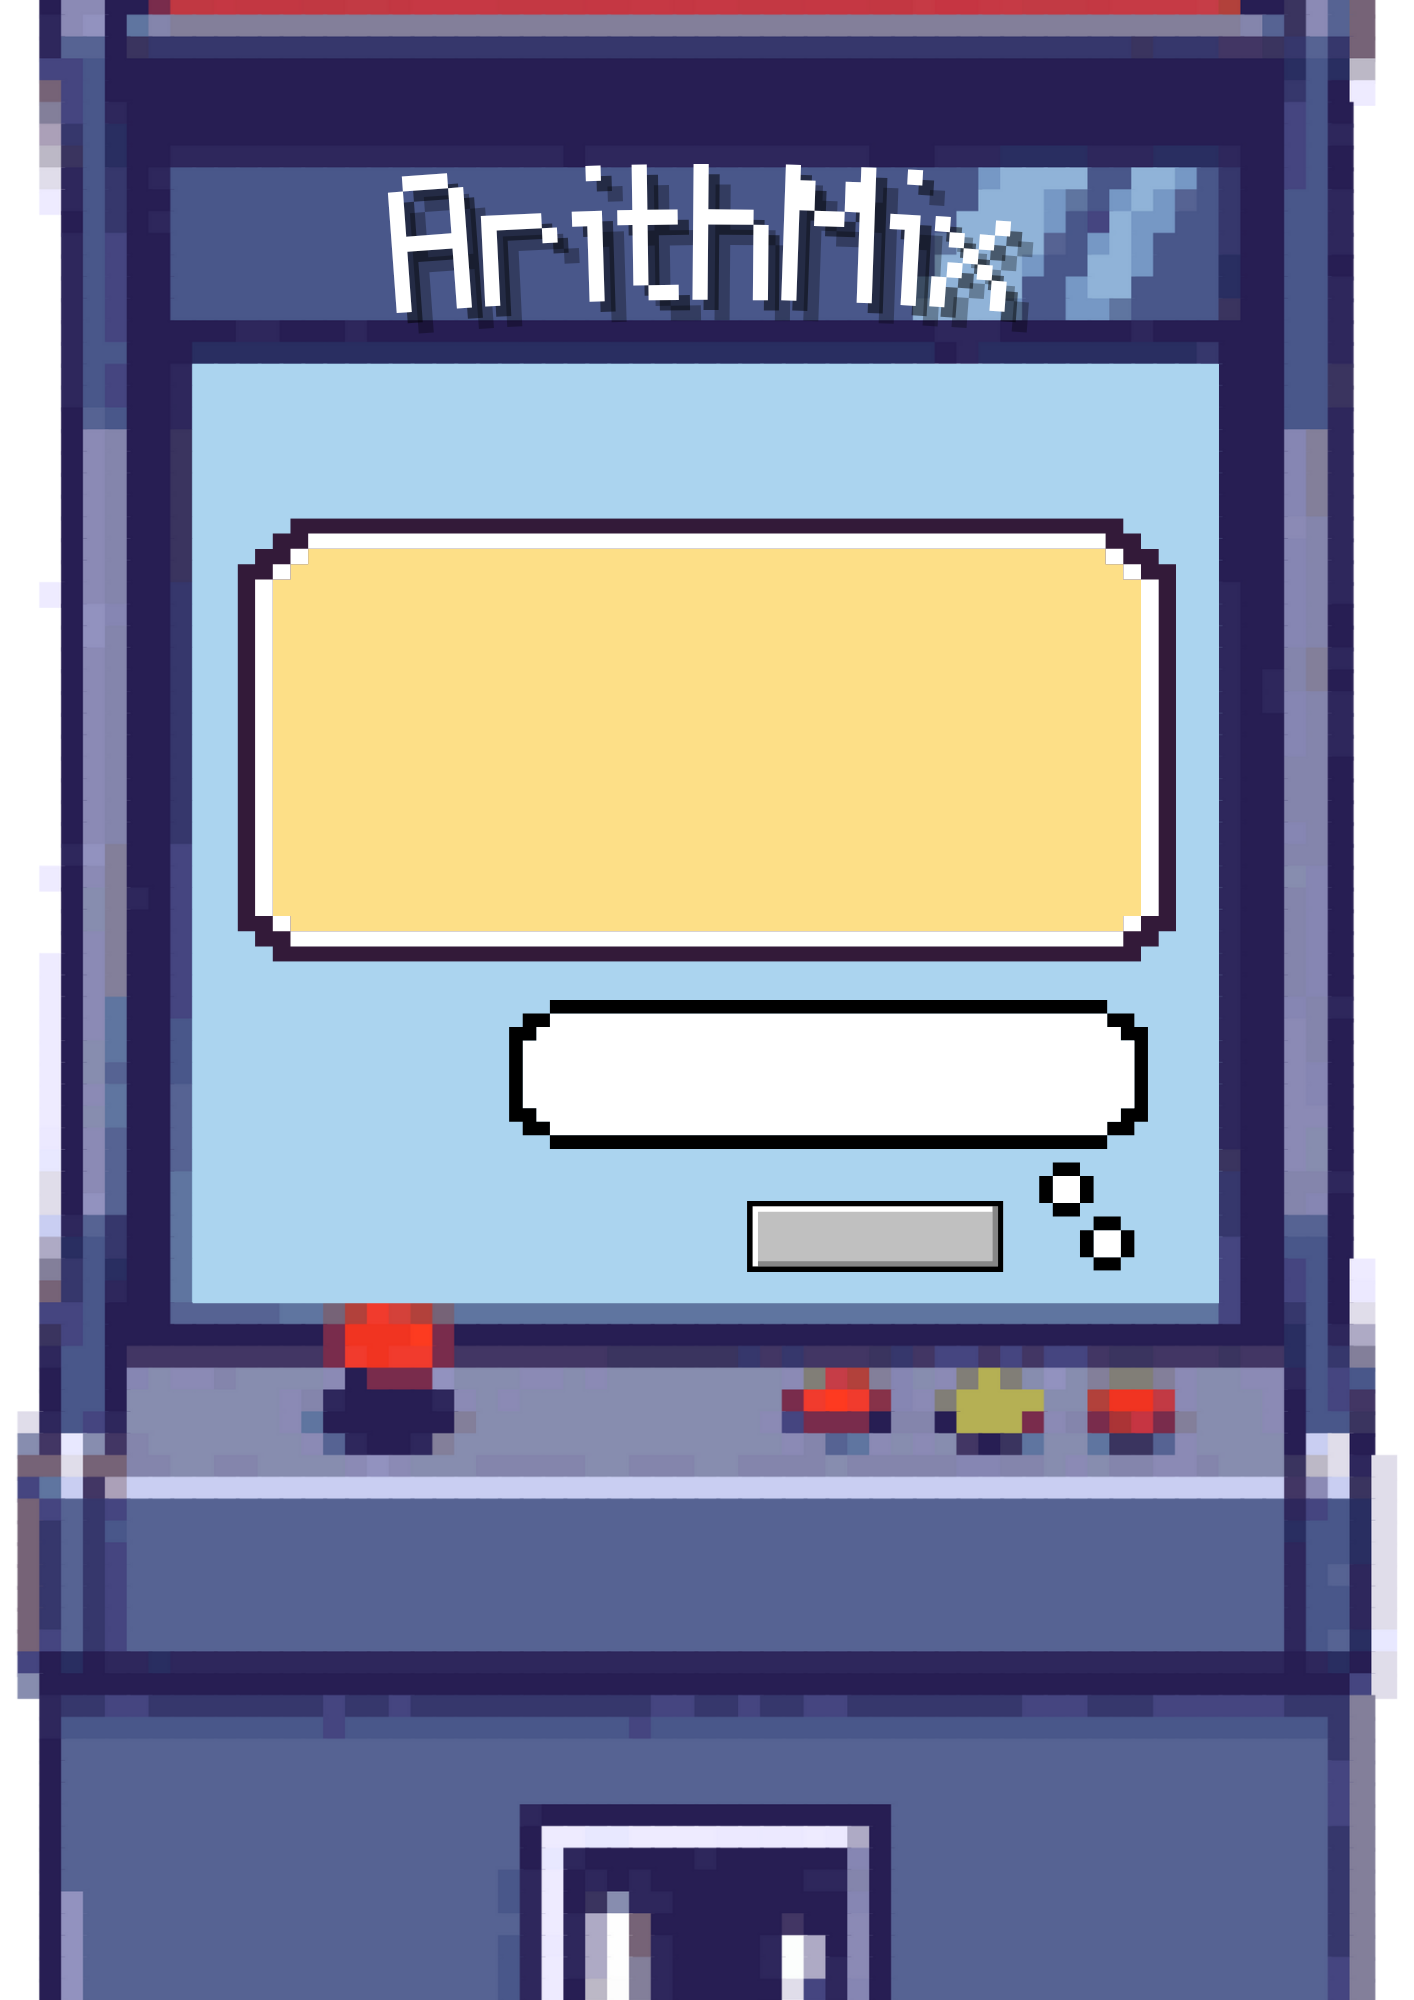
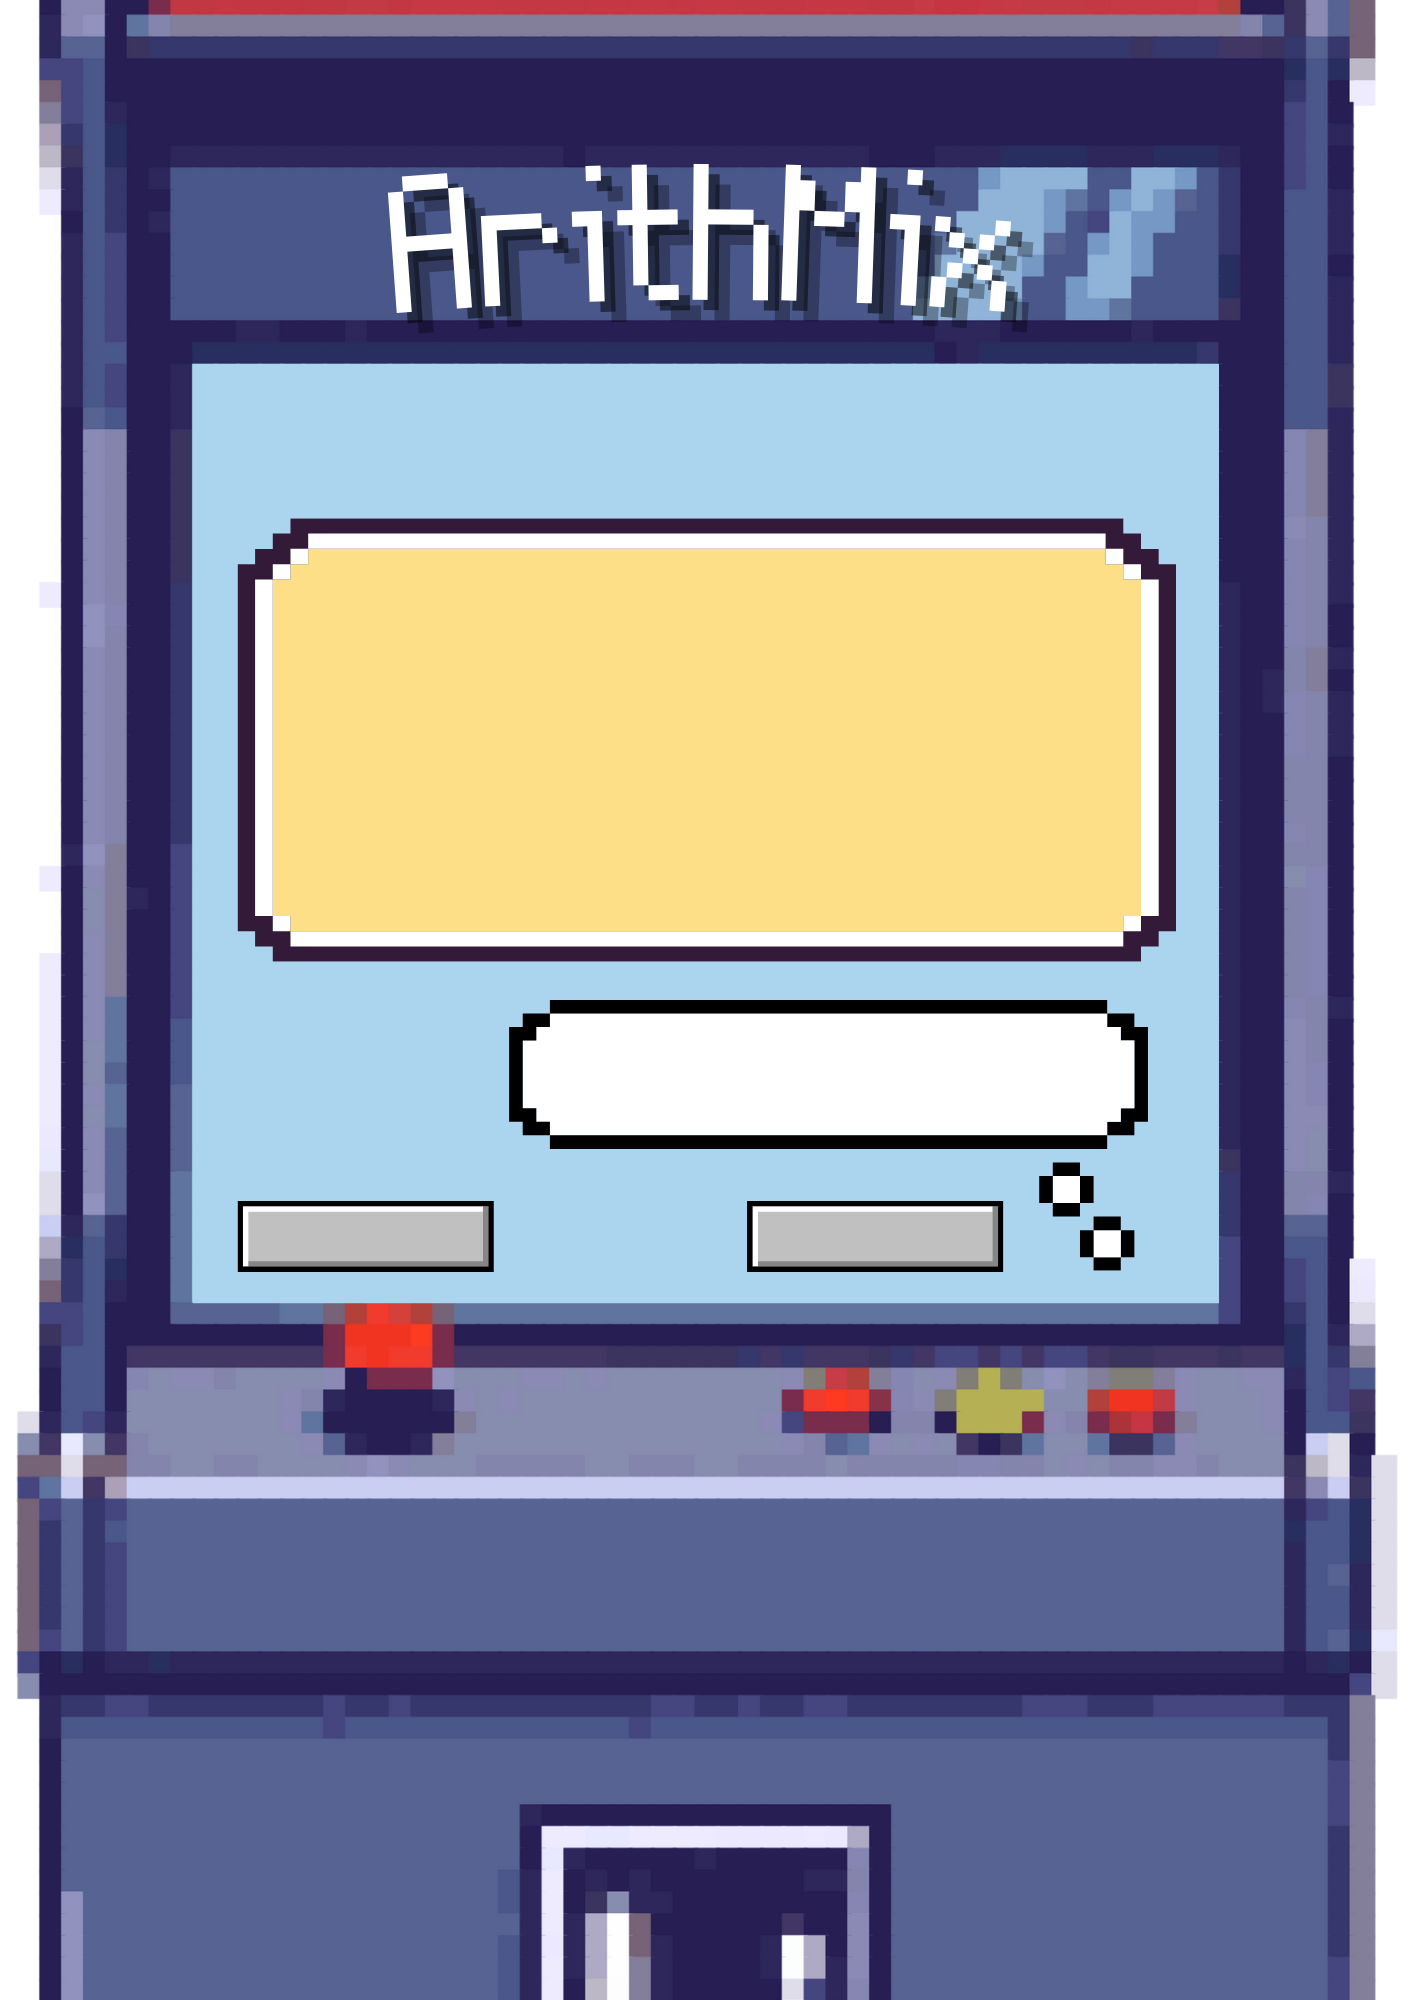
Full working Game Quiz
Added:
- Random arithmetic problems (addition/subtraction)
- Score tracking with visual feedback
- Updated custom background images
- Progress tracking

Changed region(s): [[0.1556, 0.589, 0.3734, 0.651]]

diff --git a/Exercise 1/Exercise 1 - Maths Quiz.py b/Exercise 1/Exercise 1 - Maths Quiz.py
@@ -1,32 +1,38 @@
 from tkinter import *
 from tkinter import font
 from PIL import ImageTk, Image
+import random
 
 root = Tk()
 root.title("ArithMix")
 root.geometry('595x842')
 root.resizable(0, 0)
 
+difficulty = None
+question_count = 0
+score = 0
+first_attempt = True
+current_answer = 0
 
-frame1 = Frame(root)
-frame2 = Frame(root)
-menu = Frame(root)
+frame1 = Frame(root) #Starting Screen
+frame2 = Frame(root) #Next Screen
+menu_frame = Frame(root) #Difficulty Selection
+game_frame = Frame(root) #Game Section
+result_frame = Frame(root)  # Results Frame
 
-for frame in (frame1, frame2, menu):
+for frame in (frame1, frame2, menu_frame, game_frame, result_frame):
     frame.place(x=0, y=0, relwidth=1, relheight=1)
 
-##Frame 1 - Starting Screen
-image1 = Image.open('Exercise 1\Images/1.png')
+# ------------------- Frame 1 - Starting Screen ------------------- 
+
+image1 = Image.open('Exercise 1/Images/1.png')
 image1 = image1.resize((595, 842), Image.LANCZOS)
 bg1 = ImageTk.PhotoImage(image1)
-
 bg_label1 = Label(frame1, image=bg1)
 bg_label1.place(x=0, y=0, relwidth=1, relheight=1)
 
-
 def go_to_frame2():
     frame2.tkraise()
-
 
 start_button = Button(frame1,
                       text="Start",
@@ -37,22 +43,15 @@ start_button = Button(frame1,
                       command=go_to_frame2)
 start_button.place(x=255, y=318)
 
-
-def go_to_frame1():
-    frame1.tkraise()
-
-
-##Frame2 - Next Screen
-image2 = Image.open('Exercise 1\Images/2.png')
+# ------------------- Frame 2 - Next Screen -------------------
+image2 = Image.open('Exercise 1/Images/2.png')
 image2 = image2.resize((595, 842), Image.LANCZOS)
 bg2 = ImageTk.PhotoImage(image2)
-
 bg_label2 = Label(frame2, image=bg2)
 bg_label2.place(x=0, y=0, relwidth=1, relheight=1)
 
 def displayMenu():
-    menu.tkraise()
-
+    menu_frame.tkraise()
 
 next_button = Button(frame2,
                      text="Next",
@@ -65,41 +64,176 @@ next_button = Button(frame2,
                      command=displayMenu)
 next_button.place(x=408, y=510)
 
-##Menu Frame - Difficulty Selection
-menu_img = Image.open('Exercise 1\Images/3.png')
+# ------------------- Menu Frame -------------------
+menu_img = Image.open('Exercise 1/Images/3.png')
 menu_img = menu_img.resize((595, 842), Image.LANCZOS)
 menu_bg = ImageTk.PhotoImage(menu_img)
-
-menu_bg_label = Label(menu, image=menu_bg)
+menu_bg_label = Label(menu_frame, image=menu_bg)
 menu_bg_label.place(x=0, y=0, relwidth=1, relheight=1)
 
-Button(menu, text="1. Easy (1-digit)", 
+def start_quiz(selected_difficulty):
+    global difficulty, score, question_count
+    difficulty = selected_difficulty
+    score = 0
+    question_count = 0
+    score_label.config(text=f"Score: {score}")
+    generate_question()
+    game_frame.tkraise()
+
+Button(menu_frame, text="1. Easy (1-digit)", 
             font=("Arial", 10),
             bg="#74a050",
             activebackground="#74a050",
-            bd=0).place(x=246, y=264)
+            bd=0,
+            command=lambda: start_quiz("Easy")).place(x=246, y=264)
 
-Button(menu, text="2. Moderate (2-digit)",
+Button(menu_frame, text="2. Moderate (2-digit)",
        font=("Arial", 10),
             bg="#74a050",
             activebackground="#74a050",
-            bd=0).place(x=238, y=345)
+            bd=0,
+            command=lambda: start_quiz("Moderate")).place(x=238, y=345)
 
-Button(menu, text="3. Advanced (4-digit)",
+Button(menu_frame, text="3. Advanced (4-digit)",
        font=("Arial", 10),
             bg="#74a050",
             activebackground="#74a050",
-            bd=0).place(x=238, y=425)
+            bd=0,
+            command=lambda: start_quiz("Advanced")).place(x=238, y=425)
 
-next_button_2 = Button(menu,
-                     text="Next",
-                     width=10, 
-                     height=1,
-                     font=("Arial", 9),
-                     bg="#c0c0c0",
-                     activebackground="#c0c0c0",
-                     bd=0)
-next_button_2.place(x=408, y=510)
+
+def randomInt(min_value, max_value):
+    return random.randint(min_value, max_value)
+
+def decideOperation():
+    return random.choice(["+", "-"])
+
+def displayProblem(num1, num2, operation):
+    question_label.config(text=f"{num1} {operation} {num2} = ?")
+
+def isCorrect(user_answer, correct_answer):
+    if user_answer == correct_answer:
+        feedback_label.config(text="Correct!")
+        return True
+    else:
+        feedback_label.config(text="Wrong!")
+        return False
+
+def displayResults(score):
+    result_label.config(text=f"Score: {score}/100")
+    result_frame.tkraise()
+
+def get_digit_range():
+    if difficulty == "Easy":
+        return 1, 9
+    elif difficulty == "Moderate":
+        return 10, 99
+    else:
+        return 1000, 9999
+
+def generate_question():
+    global current_answer, first_attempt, question_count
+
+    if question_count == 10:
+        displayResults(score)
+        return
+
+    first_attempt = True
+    question_count += 1
+    question_number_label.config(text=f"Question {question_count}/10")
+
+    # Get digits based on difficulty
+    min_value, max_value = get_digit_range()
+
+    num1 = randomInt(min_value, max_value)
+    num2 = randomInt(min_value, max_value)
+
+    operation = decideOperation()
+
+    # Compute answer
+    if operation == "+":
+        current_answer = num1 + num2
+    else:
+        current_answer = num1 - num2
+
+    # Display problem
+    displayProblem(num1, num2, operation)
+
+    answer_entry.delete(0, END)
+
+def check_answer():
+    global score, first_attempt
+
+    try:
+        user_answer = int(answer_entry.get())
+    except:
+        feedback_label.config(text="Enter a valid number!")
+        return
+
+    correct = isCorrect(user_answer, current_answer)
+
+    if correct:
+        if first_attempt:
+            score += 10
+        else:
+            score += 5
+
+        score_label.config(text=f"Score: {score}")
+        root.after(800, generate_question)
+
+    else:
+        if first_attempt:
+            first_attempt = False
+            feedback_label.config(text="Wrong! Try again.")
+            answer_entry.delete(0, END)
+        else:
+            feedback_label.config(text=f"Wrong again! Answer: {current_answer}")
+            root.after(1200, generate_question)
+
+# ------------------- Game Frame -------------------
+image3 = Image.open('Exercise 1/Images/4.png')
+image3 = image3.resize((595, 842), Image.LANCZOS)
+game_bg = ImageTk.PhotoImage(image3)
+game_bg_label = Label(game_frame, image=game_bg)
+game_bg_label.place(x=0, y=0, relwidth=1, relheight=1)
+
+score_label = Label(game_frame, text="Score: 0", font=("Arial", 20), bg="#abd4ef")
+score_label.place(x=365, y=160)
+
+question_number_label = Label(game_frame, text="Question 1/10", font=("Arial", 22), bg="#fddf87")
+question_number_label.place(x=210, y=250)
+
+question_label = Label(game_frame, text="", font=("Arial", 28), bg="#fddf87")
+question_label.place(x=215, y=300)
+
+answer_entry = Entry(game_frame, font=("Arial", 22), width=10, justify="center")
+answer_entry.place(x=245, y=430)
+
+submit_btn = Button(game_frame, text="Submit Answer", font=("Arial", 8), 
+                    bg="#c0c0c0", activebackground="#c0c0c0", bd=0,
+                    command=check_answer)
+submit_btn.place(x=330, y=510)
+
+feedback_label = Label(game_frame, text="", font=("Arial", 12), bg="#fddf87")
+feedback_label.place(x=220, y=350)
+
+Button(game_frame, text="Back to Menu", font=("Arial", 8), bg="#c0c0c0",
+       activebackground="#c0c0c0", bd=0,
+       command=displayMenu).place(x=120, y=510)
+
+# ------------------- Results Frame -------------------
+result_bg = Image.open('Exercise 1/Images/5.png')
+result_bg = result_bg.resize((595, 842), Image.LANCZOS)
+result_bg_img = ImageTk.PhotoImage(result_bg)
+result_bg_label = Label(result_frame, image=result_bg_img)
+result_bg_label.place(x=0, y=0, relwidth=1, relheight=1)
+
+result_label = Label(result_frame, text="", font=("Arial", 32, "bold"), bg="white")
+result_label.place(x=145, y=205)
+
+Button(result_frame, text="Return to Menu", font=("Arial", 9), bg="#c0c0c0",
+                    activebackground="#c0c0c0", bd=0, 
+                    command=displayMenu).place(x=395, y=510)
 
 frame1.tkraise()
 
